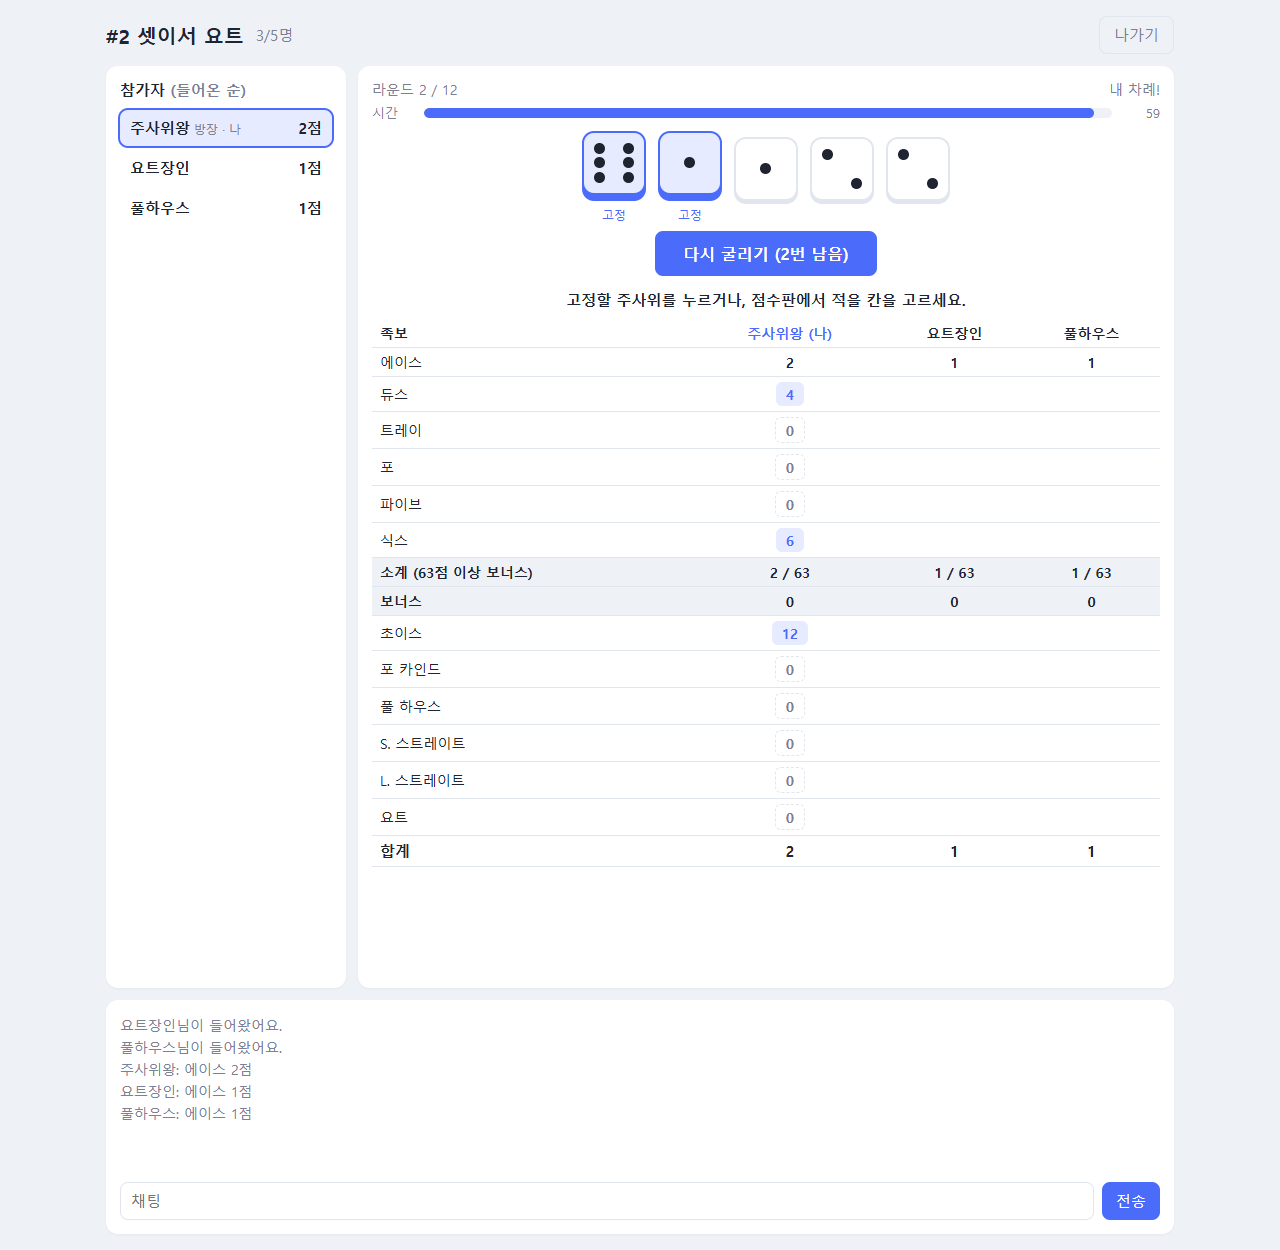
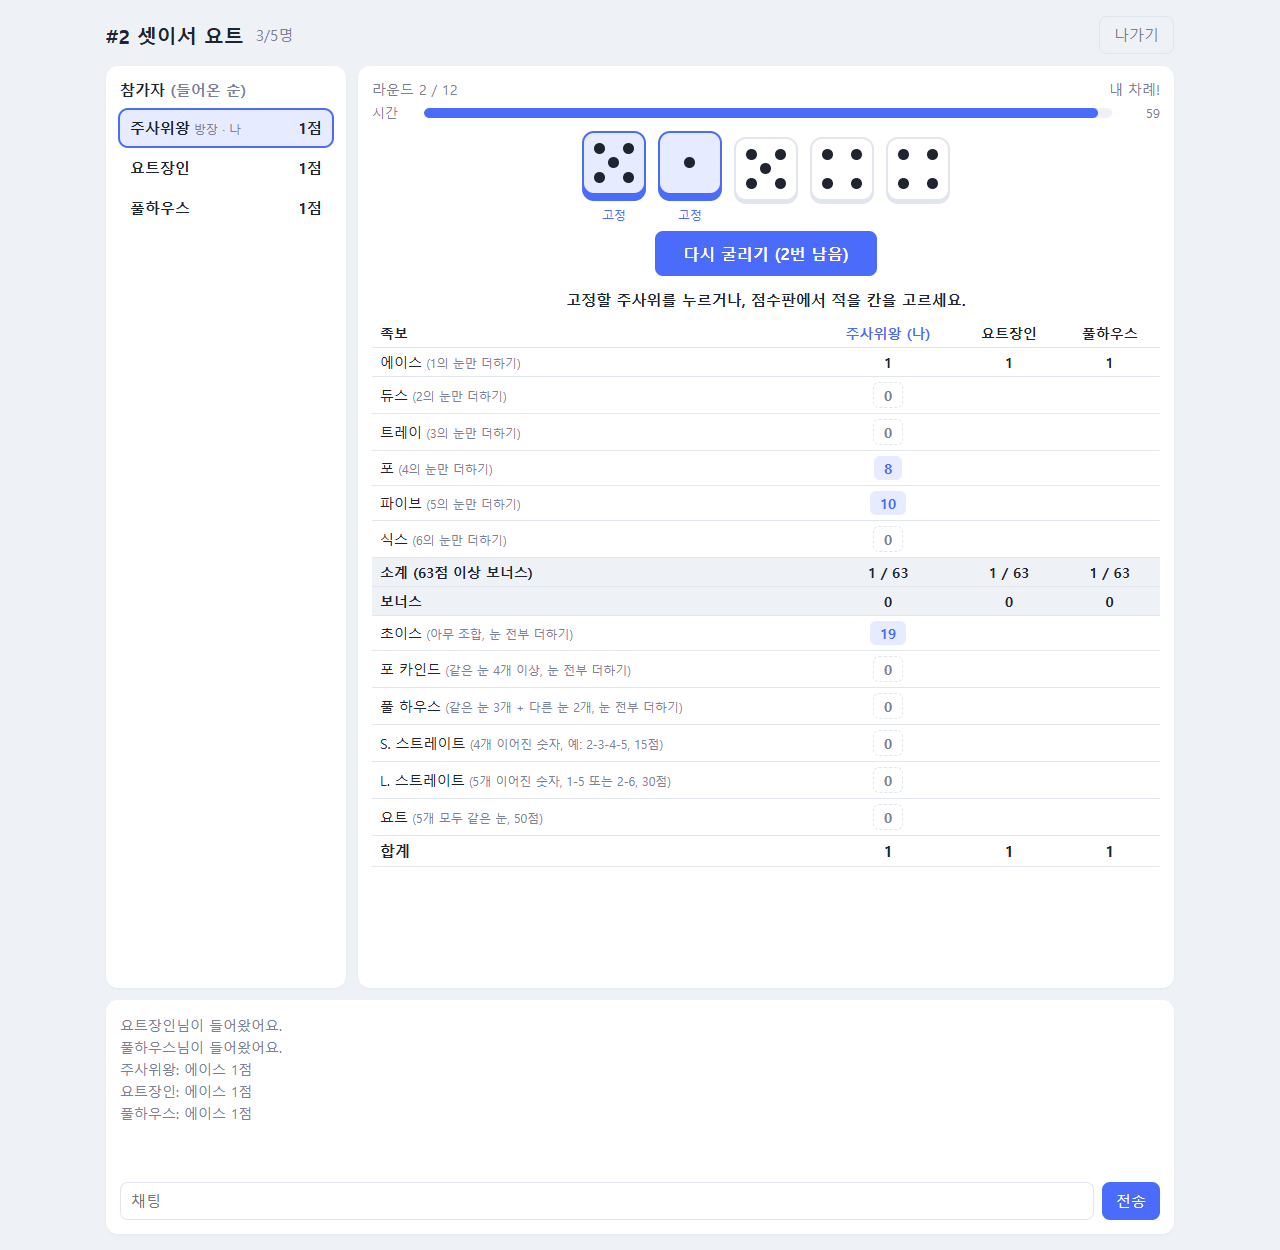
feat: 요트 다이스 점수판에 족보 설명 표시
- 족보 이름 옆에 괄호로 조건 설명 (풀 하우스: 같은 눈 3개 + 다른 눈 2개 등)
- README 스크린샷 갱신

diff --git a/yacht/static/style.css b/yacht/static/style.css
@@ -192,6 +192,7 @@ input:focus, select:focus { outline: 2px solid var(--accent-soft); border-color:
 .sheet th, .sheet td { border-bottom: 1px solid var(--line); padding: 5px 8px; text-align: center; }
 .sheet th:first-child, .sheet td:first-child { text-align: left; }
 .sheet thead th.turn { color: var(--accent); }
+.sheet td .hint { color: var(--muted); font-size: 12px; font-weight: 400; }
 .sheet tr.sum td { background: var(--bg); font-weight: 600; }
 .sheet tr.total td { font-weight: 700; font-size: 15px; }
 .sheet td.written { font-weight: 600; }

diff --git a/yacht/static/index.html b/yacht/static/index.html
@@ -4,7 +4,7 @@
   <meta charset="utf-8">
   <meta name="viewport" content="width=device-width, initial-scale=1">
   <title>요트 다이스</title>
-  <link rel="stylesheet" href="static/style.css?v=1">
+  <link rel="stylesheet" href="static/style.css?v=2">
 </head>
 <body>
   <!-- 로그인 -->
@@ -124,6 +124,6 @@
   <div id="toast" class="toast hidden"></div>
 
   <script src="../common/lobby.js?v=1"></script>
-  <script src="static/app.js?v=1"></script>
+  <script src="static/app.js?v=3"></script>
 </body>
 </html>
